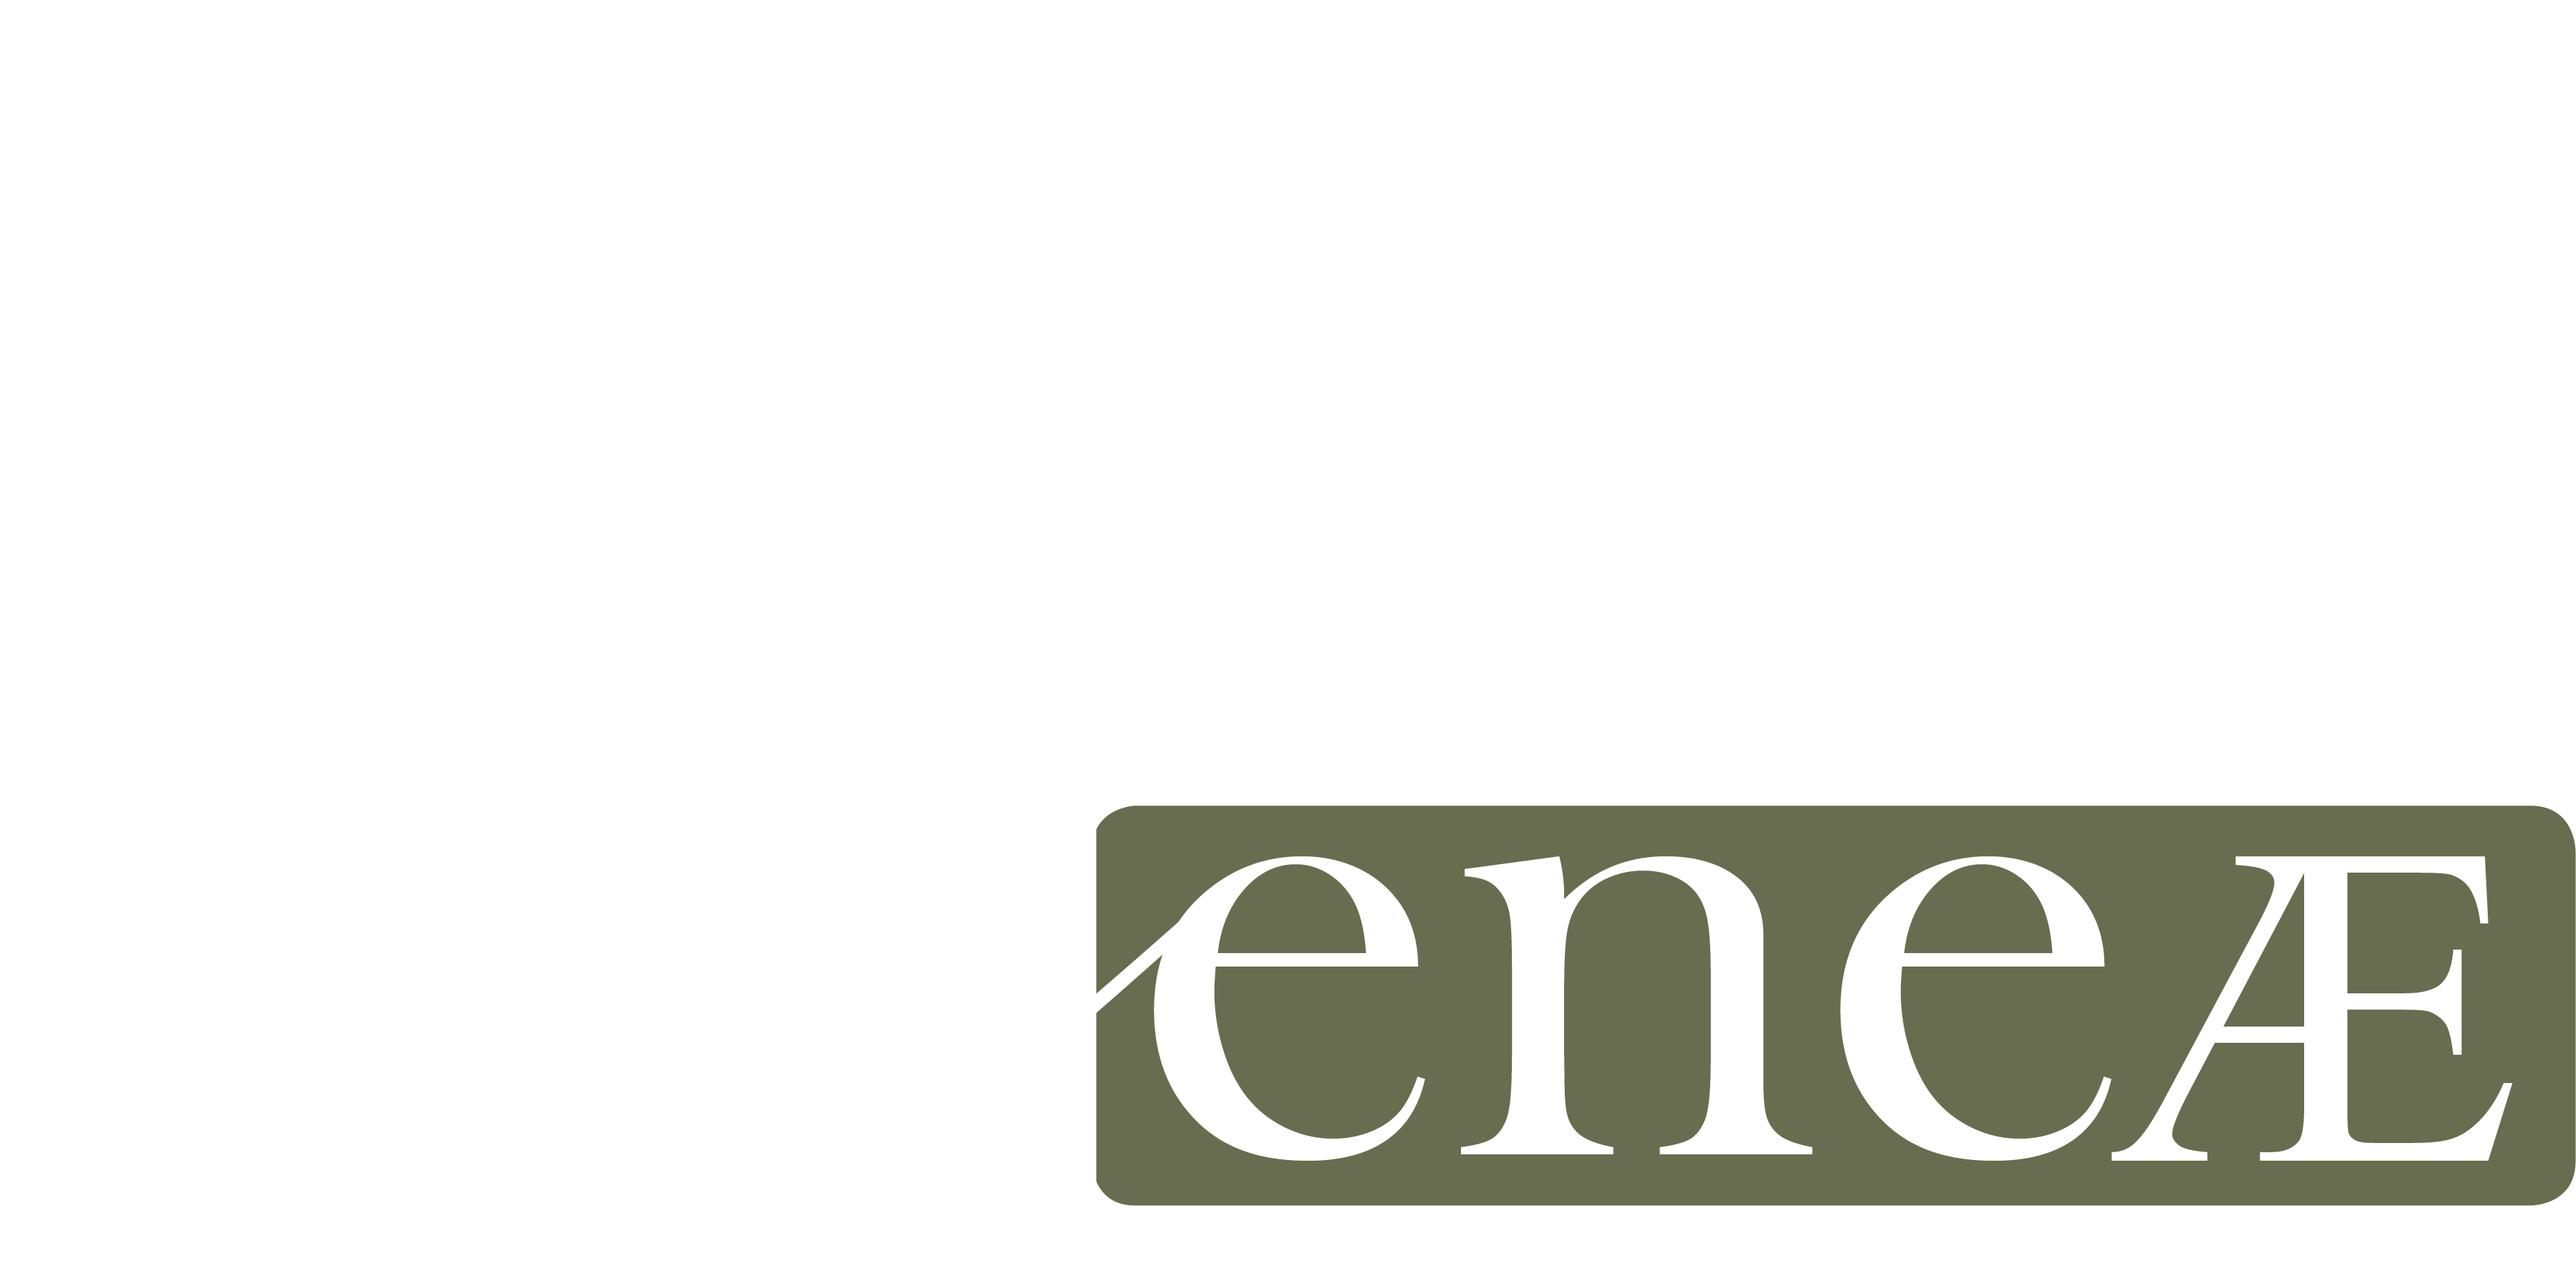
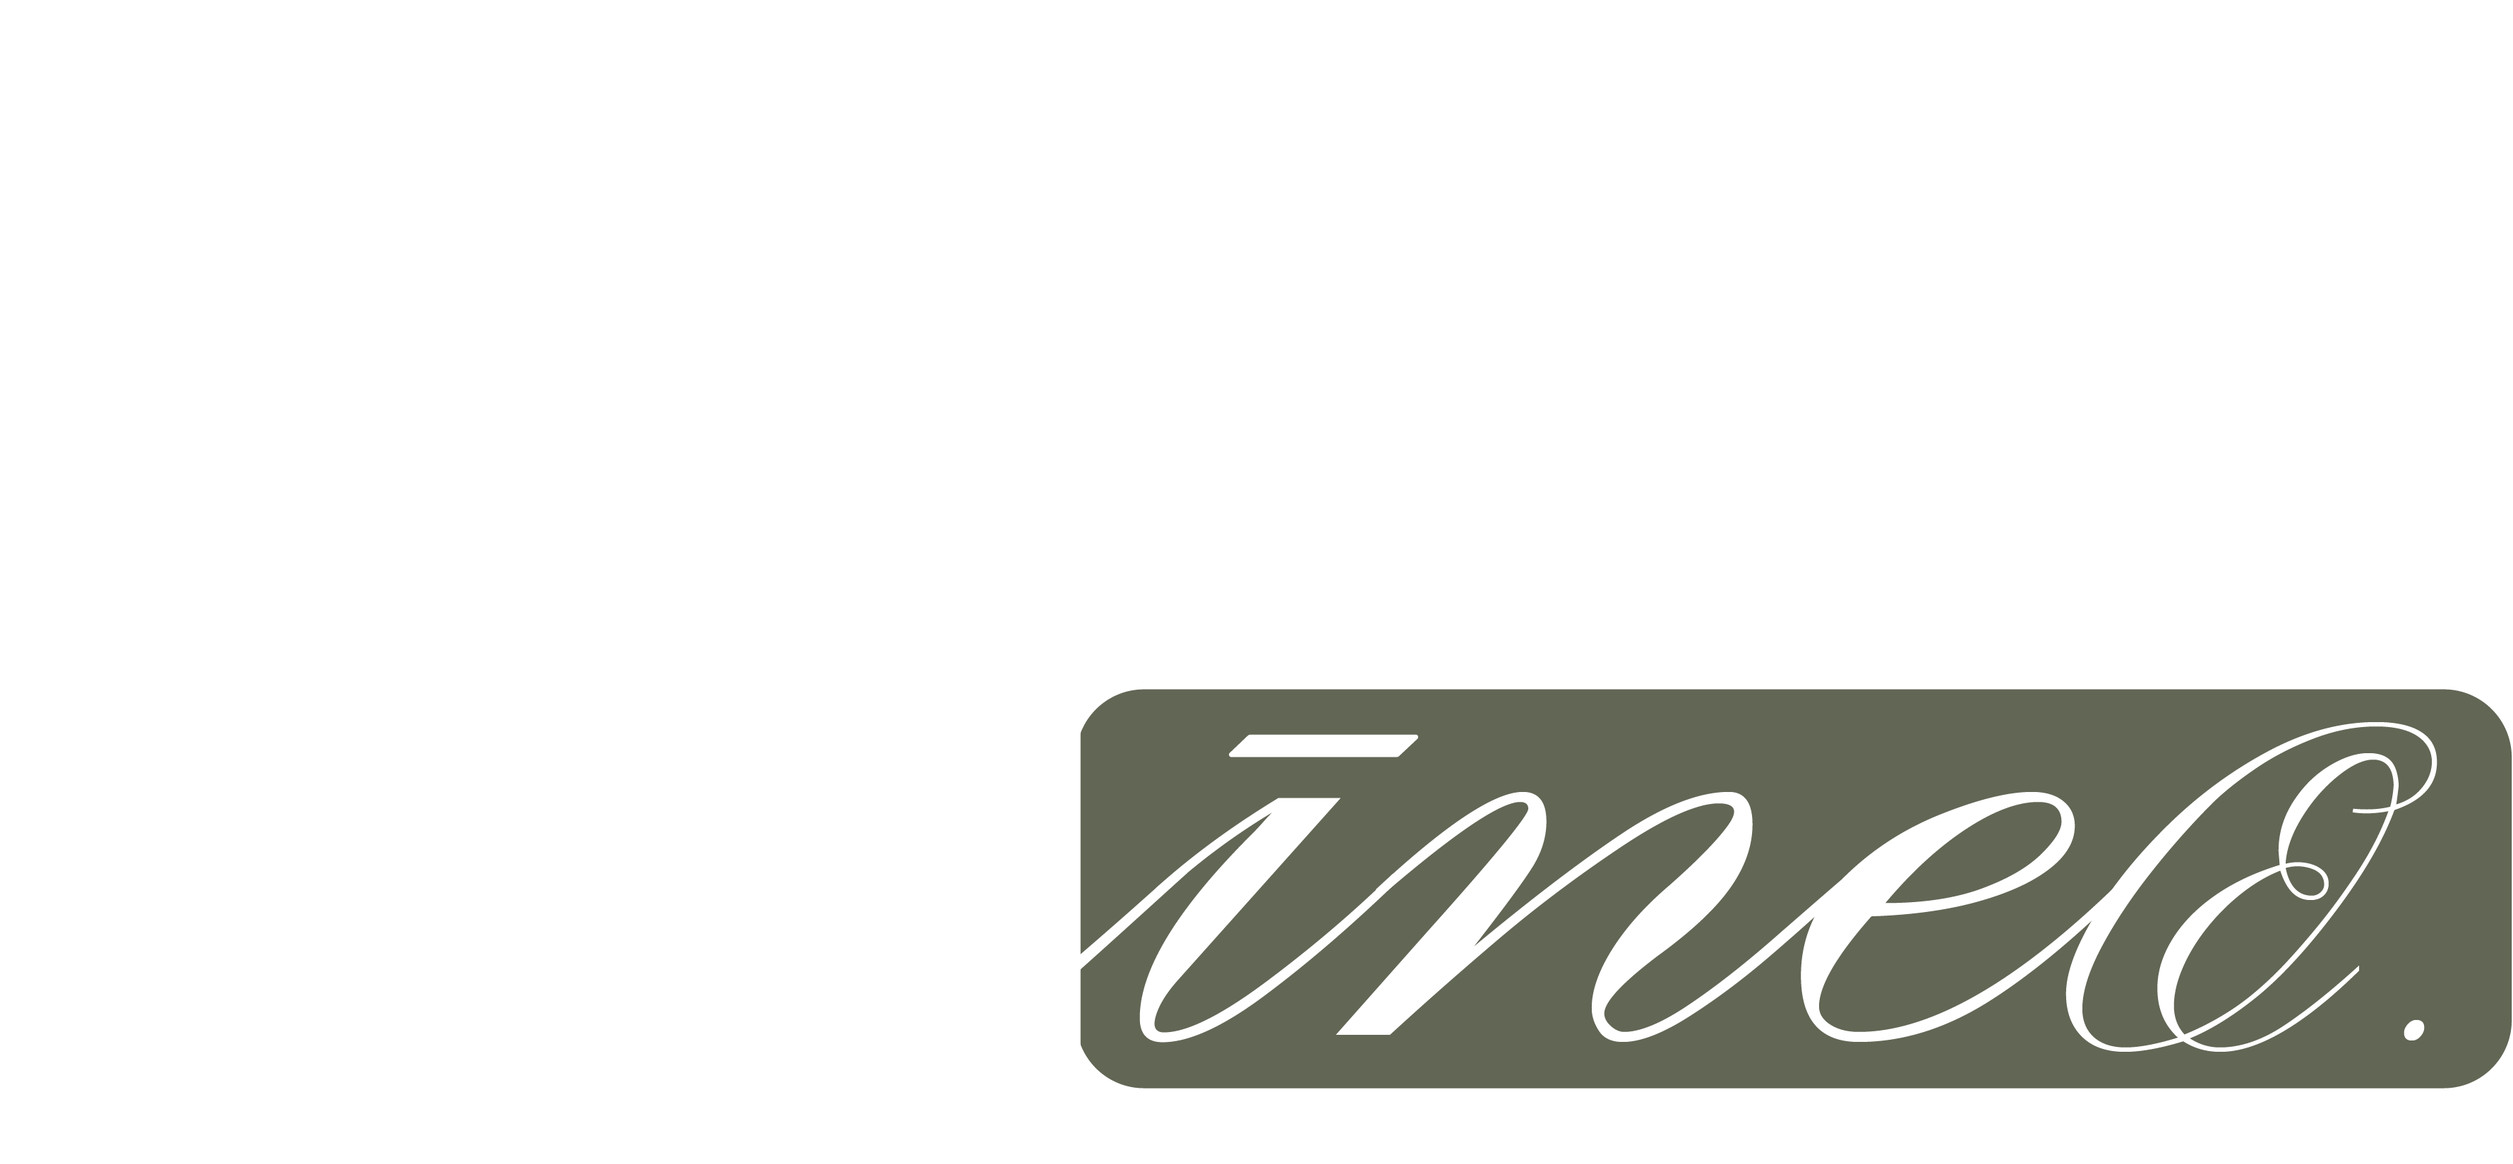
Update light and dark wordmarks

Changed region(s): [[0.4053, 0.5876, 1.0, 0.9588]]

diff --git a/apps/web/index.html b/apps/web/index.html
@@ -17,8 +17,8 @@
   <header>
     <h1 class="brand" aria-label="Lineæ">
       <a class="brand-link" href="https://github.com/AminiamEva/Lineae" target="_blank" rel="noopener noreferrer" aria-label="Lineae on GitHub">
-        <img class="brand-wordmark brand-wordmark-light" src="./assets/brand/lineae-new-light.png" width="3648" height="1813" alt="">
-        <img class="brand-wordmark brand-wordmark-dark" src="./assets/brand/lineae-new-dark.png" width="3648" height="1813" alt="">
+        <img class="brand-wordmark brand-wordmark-light" src="./assets/brand/lineae-new-light.png" width="3560" height="1649" alt="">
+        <img class="brand-wordmark brand-wordmark-dark" src="./assets/brand/lineae-new-dark.png" width="3560" height="1649" alt="">
       </a>
     </h1>
     <div class="tools" data-zh-title="编辑工具" data-en-title="Editing tools">
